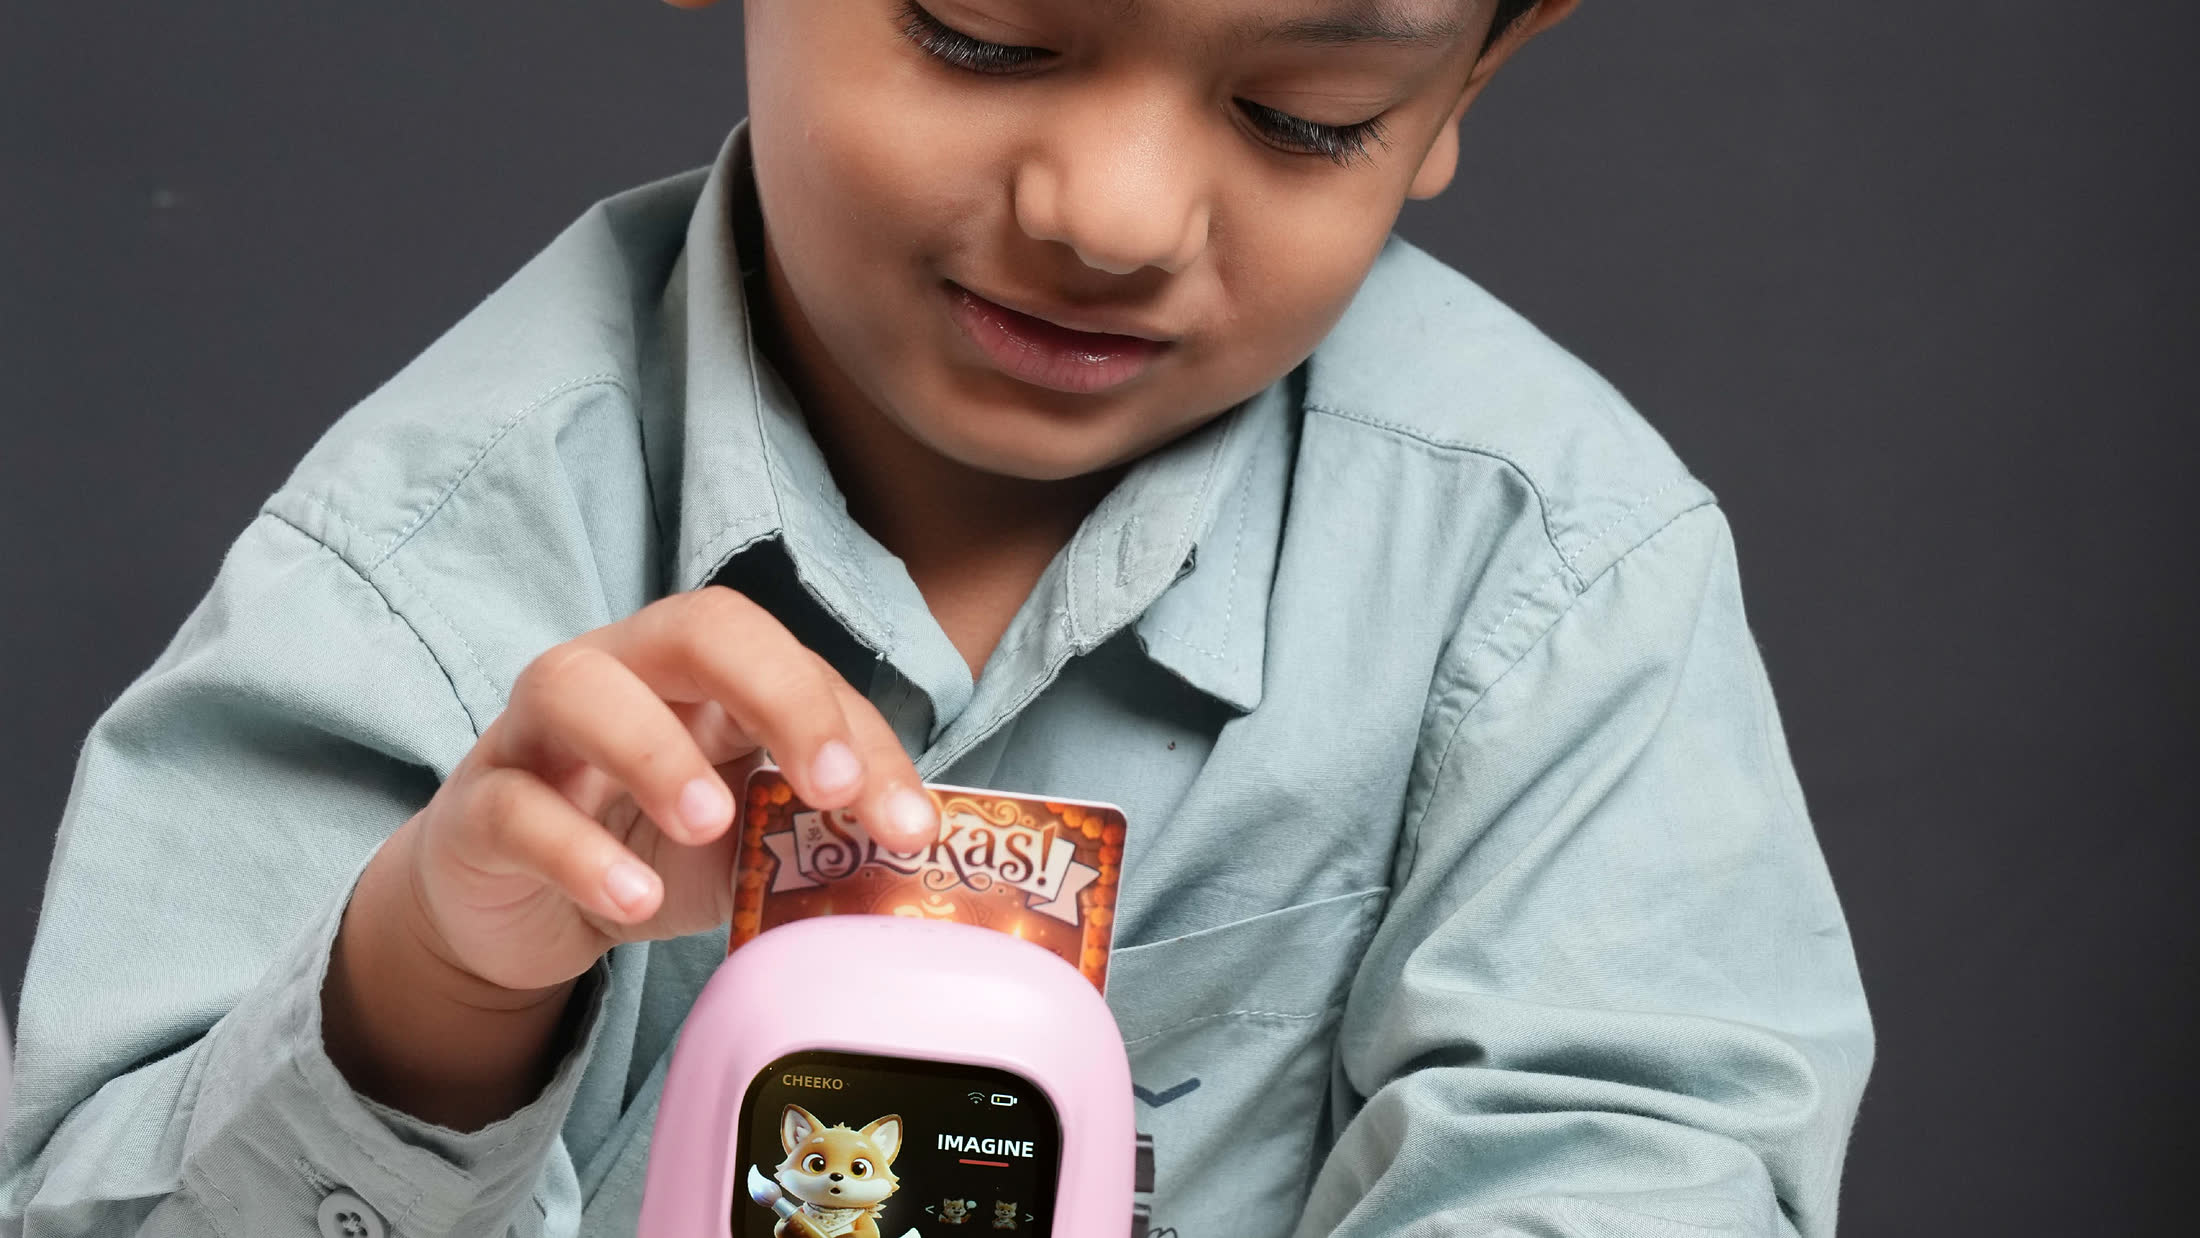
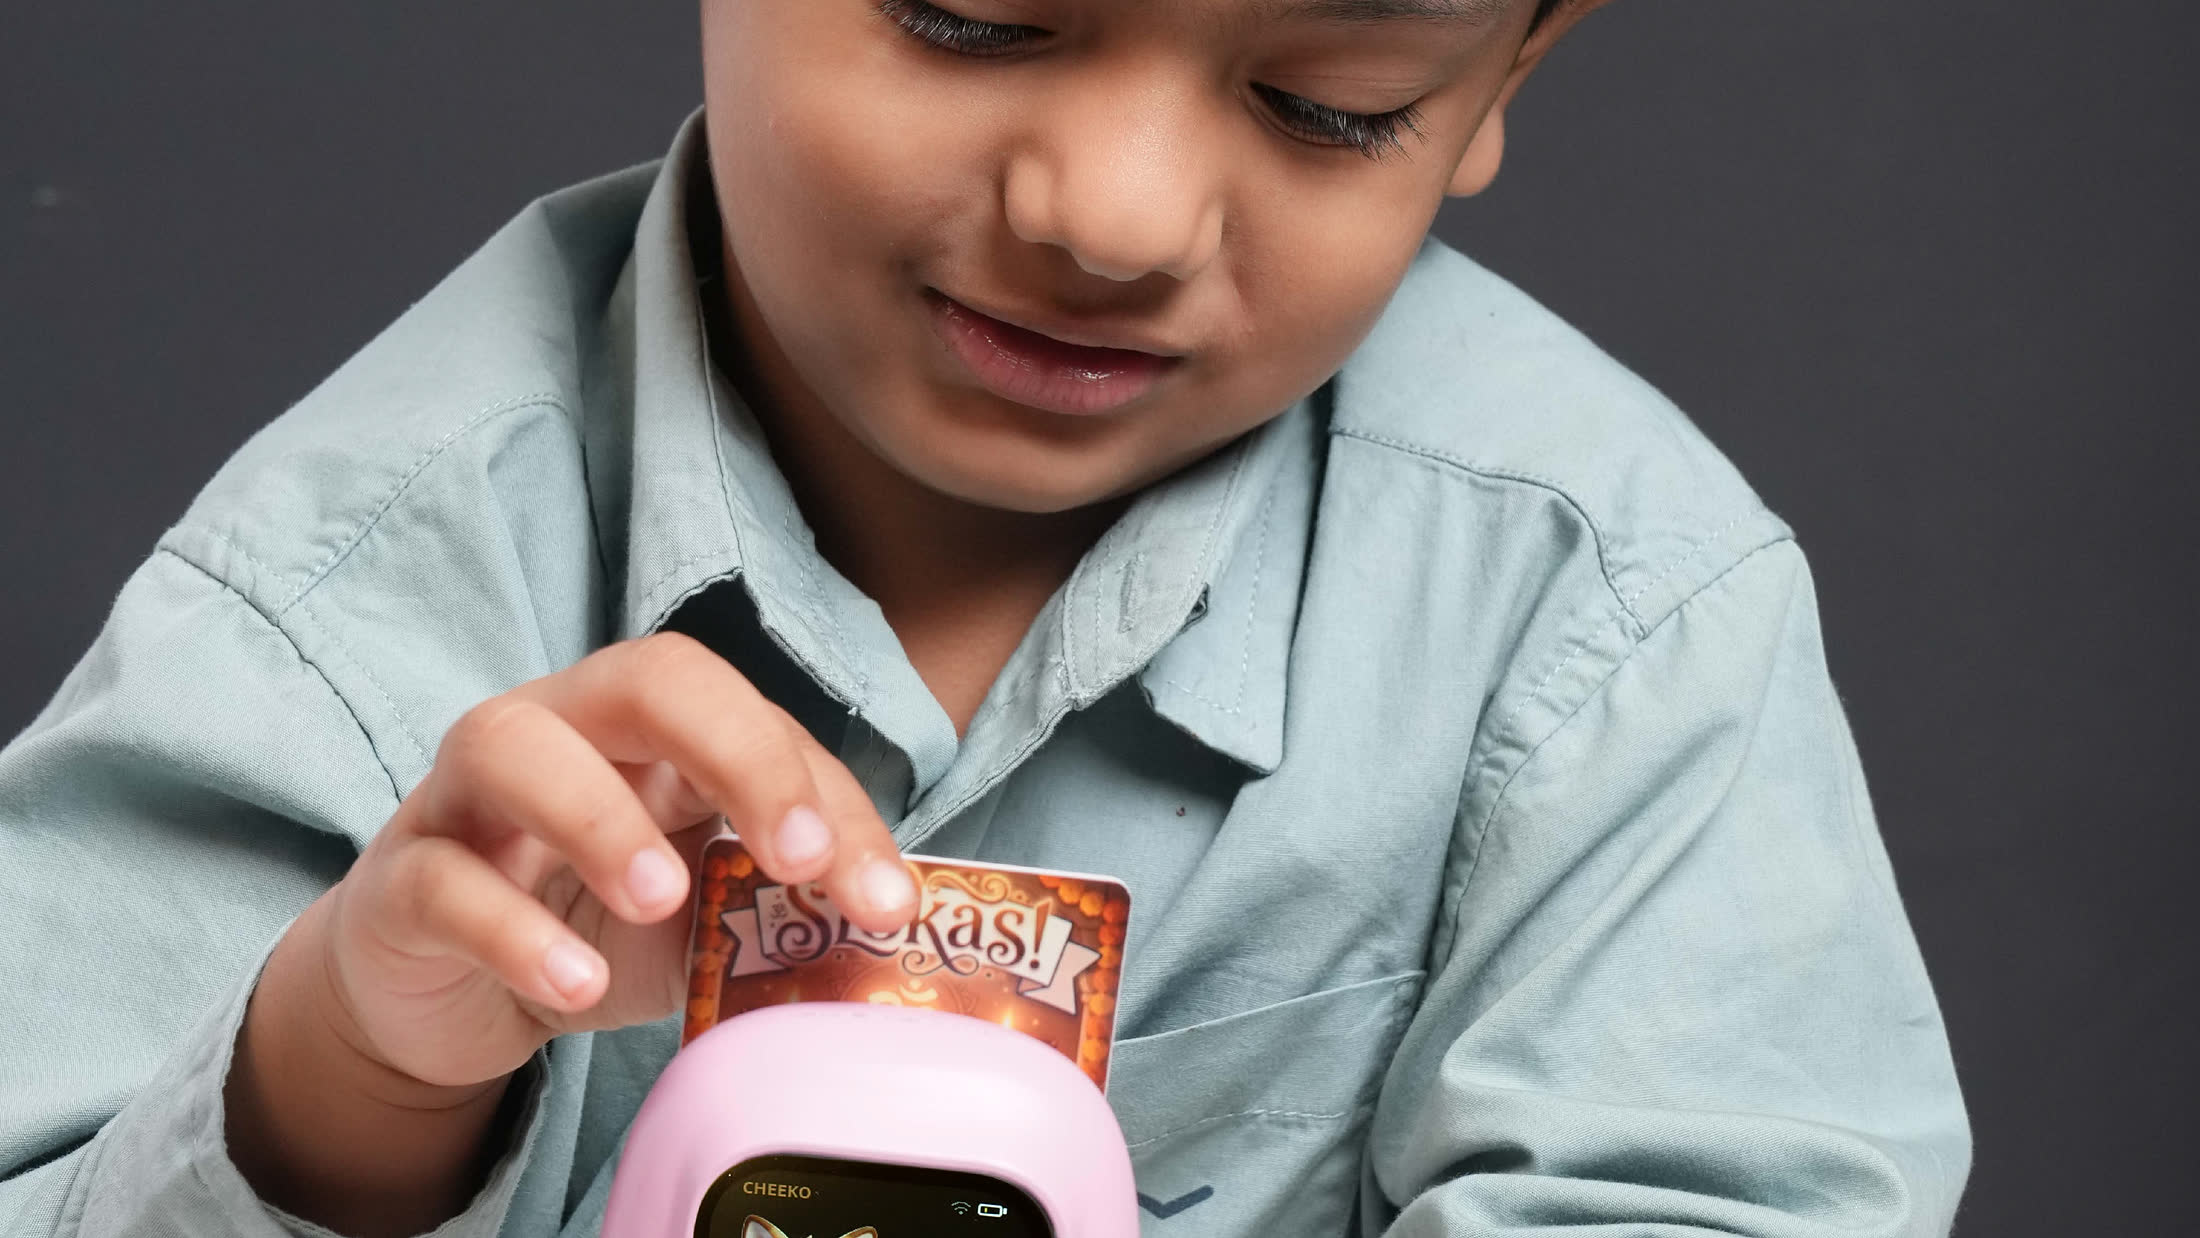
Cinema hero: per-photo crops focused on child and device, per-slide mobile crops, tighter scrim

diff --git a/hero2-c.html b/hero2-c.html
@@ -15,14 +15,15 @@
 .backlink{position:fixed;top:14px;right:14px;z-index:60;background:#fff;color:var(--ink);font:600 13px/1 "Hanken Grotesk",sans-serif;padding:9px 14px;border-radius:99px;text-decoration:none;box-shadow:0 4px 14px rgba(35,26,16,.15)}
 .cine{position:relative;min-height:94svh;display:flex;align-items:center;overflow:hidden;background:#241407}
 .cine .slide{position:absolute;inset:0;opacity:0;transition:opacity 1.2s ease}
-.cine .slide img{width:100%;height:100%;object-fit:cover;object-position:center 28%;transform:scale(1.04);transition:transform 5.2s linear}
+.cine .slide picture{position:absolute;inset:0;display:block}
+.cine .slide img{width:100%;height:100%;object-fit:cover;object-position:center 40%;transform:scale(1.04);transition:transform 5.2s linear}
 .cine .slide.on{opacity:1}
 .cine .slide.on img{transform:scale(1.0)}
-.cine::after{content:"";position:absolute;inset:0;background:linear-gradient(100deg,rgba(24,12,4,.8) 0%,rgba(24,12,4,.52) 34%,rgba(24,12,4,.06) 62%);z-index:1}
+.cine::after{content:"";position:absolute;inset:0;background:linear-gradient(97deg,rgba(24,12,4,.82) 0%,rgba(24,12,4,.6) 20%,rgba(24,12,4,0) 46%);z-index:1}
 .cn-in{position:relative;z-index:2;width:100%;max-width:1160px;margin:0 auto;padding:80px 28px}
-.cn-copy{max-width:520px;color:#FFF4E3}
+.cn-copy{max-width:440px;color:#FFF4E3}
 .cn-copy .eyebrow{background:rgba(255,244,227,.14);color:var(--sun);border:1px solid rgba(255,200,26,.35)}
-.cn-copy h1{font-family:var(--disp);font-weight:900;font-size:clamp(40px,5.6vw,68px);line-height:1.02;margin:18px 0 14px;color:#FFF4E3}
+.cn-copy h1{font-family:var(--disp);font-weight:900;font-size:clamp(38px,4.8vw,58px);line-height:1.02;margin:18px 0 14px;color:#FFF4E3}
 .cn-copy h1 span{color:var(--sun)}
 .cn-copy p{font-size:clamp(15.5px,1.6vw,18px);line-height:1.55;color:rgba(255,244,227,.88);max-width:42ch;margin:0 0 20px}
 .cn-price{display:flex;align-items:center;gap:12px;margin-bottom:22px}
@@ -37,23 +38,31 @@
 .prodchip small{font-family:var(--mono);font-weight:700;font-size:10px;letter-spacing:.1em;color:var(--brand);text-transform:uppercase}
 @media (max-width:760px){
   .cine{min-height:96svh;align-items:flex-end}
-  .cine .slide img{object-position:center 16%}
+  .cine .slide picture{position:absolute;inset:0;display:block}
+.cine .slide img{object-position:center 24%}
   .cine::after{background:linear-gradient(180deg,rgba(24,12,4,.16) 30%,rgba(24,12,4,.84) 78%)}
   .cn-in{padding:0 20px 104px}
   .cn-copy h1{font-size:clamp(34px,10vw,44px)}
   .prodchip{right:14px;bottom:64px;padding:8px 14px 8px 8px}
   .prodchip img{width:46px;height:46px}
 }
-@media (prefers-reduced-motion:reduce){.cine .slide{transition:none}.cine .slide img{transition:none;transform:none}}
+@media (prefers-reduced-motion:reduce){.cine .slide{transition:none}.cine .slide picture{position:absolute;inset:0;display:block}
+.cine .slide img{transition:none;transform:none}}
 </style>
 </head>
 <body>
 <span class="badge">OPTION C · CINEMA</span>
 <a class="backlink" href="index.html">Back to site</a>
 <header class="cine" id="cine">
-  <div class="slide on"><img src="assets/img/live/hero-moment-joy.jpg" alt="A young girl smiling with her yellow Cheeko held to her cheek" fetchpriority="high" /></div>
-  <div class="slide"><img src="assets/img/live/hero-moment-mom.jpg" alt="A mother and daughter laughing over their Cheeko" loading="lazy" /></div>
-  <div class="slide"><img src="assets/img/live/hero-moment-slot.jpg" alt="A boy sliding a story card into his Cheeko" loading="lazy" /></div>
+  <div class="slide on"><picture>
+    <source media="(max-width:760px)" srcset="assets/img/live/hero-moment-joy-m.jpg" />
+    <img src="assets/img/live/hero-moment-joy.jpg" alt="A young girl smiling with her yellow Cheeko held to her cheek, Quizzy Bee on its screen" fetchpriority="high" /></picture></div>
+  <div class="slide"><picture>
+    <source media="(max-width:760px)" srcset="assets/img/live/hero-moment-mom-m.jpg" />
+    <img src="assets/img/live/hero-moment-mom.jpg" alt="A mother and daughter laughing over their yellow Cheeko and a story card" loading="lazy" /></picture></div>
+  <div class="slide"><picture>
+    <source media="(max-width:760px)" srcset="assets/img/live/hero-moment-slot-m.jpg" />
+    <img src="assets/img/live/hero-moment-slot.jpg" alt="A boy sliding the Slokas story card into his pink Cheeko" loading="lazy" /></picture></div>
   <div class="cn-in">
     <div class="cn-copy">
       <span class="eyebrow">India's AI learning device for ages 3–10</span>
